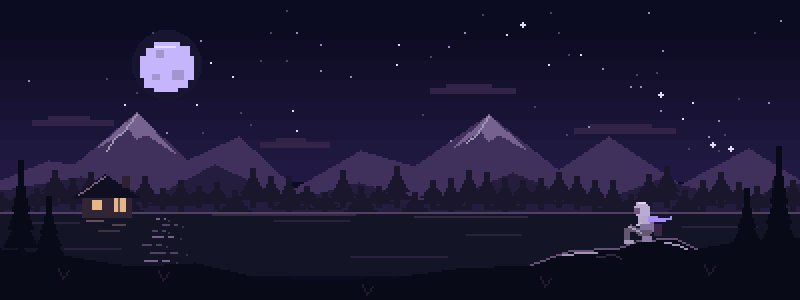
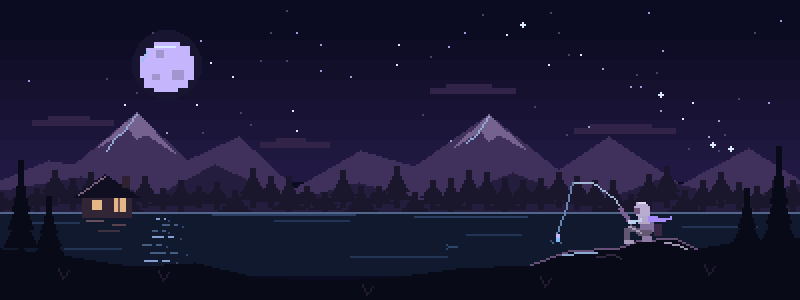
Center profile and add animated blue-accent fishing scene

diff --git a/tools/render_night_hero.py b/tools/render_night_hero.py
@@ -1,4 +1,4 @@
-"""A hand-drawn pixel landscape with a small stargazer and looping night sky.
+"""A hand-drawn pixel landscape with a fishing sprite and looping night sky.
 
 Render at 400x150, then enlarge exactly 2x to preserve crisp pixel edges.
 Requires Pillow. There is deliberately no text in the artwork.
@@ -38,7 +38,8 @@ def landscape():
     d.rectangle((78,25,81,28),fill='#A396CE')
     d.rectangle((86,35,91,39),fill='#A396CE')
     d.rectangle((76,37,79,39),fill='#A396CE')
-    d.line((77,23,87,23),fill='#E5DAFF')
+    d.line((77,23,87,23),fill='#D9E8FF')
+    d.line((73,25,71,30),fill='#9ABFF1')
 
     # Distant lavender clouds and two overlapping mountain ridges.
     for x,y,l in [(16,60,40),(215,44,42),(287,64,50),(130,71,34)]:
@@ -48,20 +49,20 @@ def landscape():
                (180,75),(207,83),(244,57),(279,85),(304,68),(340,92),(374,74),(400,90),(400,120),(0,120)],fill='#3F315B')
     d.polygon([(49,73),(68,56),(87,76),(73,67),(68,69),(64,64)],fill='#76628F')
     d.polygon([(227,73),(244,57),(262,74),(249,67),(244,70),(240,65)],fill='#76628F')
-    d.line([(68,57),(62,65),(57,69),(53,75)],fill='#A397B6')
-    d.line([(244,58),(238,67),(233,71)],fill='#A397B6')
+    d.line([(68,57),(62,65),(57,69),(53,75)],fill='#92A8D4')
+    d.line([(244,58),(238,67),(233,71)],fill='#92A8D4')
     d.polygon([(0,95),(40,88),(77,98),(107,82),(145,100),(179,91),(217,102),
                (256,86),(295,102),(330,89),(368,100),(400,91),(400,120),(0,120)],fill='#251D3D')
     for x in range(0,405,9):
         tree(d,x,105+rng.randrange(-3,4),rng.randrange(10,21),'#1A172C')
 
     # Lake and distant shoreline.
-    d.rectangle((0,106,400,137),fill='#131426')
-    d.line((0,106,400,106),fill='#514165')
-    d.line((106,107,177,107),fill='#332840')
-    d.line((207,108,263,108),fill='#332840')
+    d.rectangle((0,106,400,137),fill='#10192D')
+    d.line((0,106,400,106),fill='#52658B')
+    d.line((106,107,177,107),fill='#2B3D61')
+    d.line((207,108,263,108),fill='#2B3D61')
     for x,y,l in [(15,111,24),(137,110,37),(233,117,27),(175,128,48),(32,124,28),(341,113,37)]:
-        d.line((x,y,x+l,y),fill='#28223D')
+        d.line((x,y,x+l,y),fill='#233455')
 
     # Tiny lakeside cabin and its warm windows.
     d.rectangle((41,98,65,108),fill='#322535')
@@ -80,7 +81,7 @@ def landscape():
                (199,138),(228,134),(265,132),(285,125),(308,124),(319,120),
                (337,119),(348,124),(371,120),(400,118),(400,150),(0,150)],fill='#080A17')
     d.line([(265,132),(285,125),(308,124),(319,120),(337,119),(348,124)],fill='#665078',width=1)
-    d.line([(281,127),(292,126),(298,126)],fill='#A396B4')
+    d.line([(281,127),(292,126),(298,126)],fill='#8CAAD2')
     d.line([(332,121),(339,122),(343,124)],fill='#A396B4')
     d.line([(298,128),(307,127),(310,129)],fill='#30263F')
     for x,y,size in [(10,132,52),(24,135,37),(389,130,57),(373,133,39)]:
@@ -101,7 +102,7 @@ for frame in range(N):
         if base.getpixel((x,y)) not in sky_colors:
             continue
         value = (cos((frame+phase)*2*pi/N)+1)/2
-        color = '#E4DDF9' if value>.86 else '#9A87C1' if value>.42 else '#4D416B'
+        color = '#DCEBFF' if value>.86 else '#9A9ED5' if value>.42 else '#4D416B'
         d.point((x,y),fill=color)
         if large and value>.86:
             d.line((x-1,y,x+1,y),fill=color)
@@ -111,18 +112,41 @@ for frame in range(N):
     for j,(y,offset,half) in enumerate([(109,-1,3),(112,2,5),(115,-4,4),(118,1,7),
                                       (122,-3,6),(126,4,9),(130,-1,8)]):
         x = 82 + offset + round(sin(frame*2*pi/N+j)*2)
-        shade = '#514267' if (frame//8+j)%3 else '#75618B'
+        shade = '#465D83' if (frame//8+j)%3 else '#849FD0'
         d.line((x-half,y,x-2,y),fill=shade)
         d.line((x+1,y,x+half//2,y),fill=shade)
-        d.point((x+half,y+1),fill='#3D324E')
+        d.point((x+half,y+1),fill='#30466A')
 
-    # A seated stargazer in a pale hoodie, looking left over the lake.
+    # Fishing line, float and small expanding ripples, drawn on the lake.
+    bob = round(sin(frame*2*pi/N)*1.2)
+    rod_lift = 1 if 18 <= frame < 30 else 0
+    tip_x, tip_y = 286, 91-rod_lift
+    float_x, float_y = 278, 119+bob
+    d.line([(315,111),(307,99),(296,91-rod_lift),(tip_x,tip_y)],fill='#A4B6D5')
+    d.line([(315,111),(310,104)],fill='#796193',width=2)
+    d.line([(tip_x,tip_y),(283,103),(float_x,float_y-2)],fill='#6685B0')
+    ripple = 2 + (frame//6)%4
+    ripple_color = '#45658B' if ripple < 4 else '#2A4161'
+    d.line((float_x-ripple,float_y+2,float_x-2,float_y+2),fill=ripple_color)
+    d.line((float_x+2,float_y+2,float_x+ripple,float_y+2),fill=ripple_color)
+    d.point((float_x-ripple-1,float_y+1),fill='#304F75')
+    d.rectangle((float_x,float_y-2,float_x+1,float_y-1),fill='#C4B5FD')
+    d.rectangle((float_x,float_y,float_x+1,float_y+1),fill='#7DBEFA')
+    # A faint fish passes beneath the surface, turning back in the loop.
+    fish_x = 226 + round(sin(frame*2*pi/N)*12)
+    facing = 1 if cos(frame*2*pi/N)>0 else -1
+    d.line((fish_x-2,123,fish_x+2,123),fill='#29476D')
+    d.point((fish_x-3*facing,122),fill='#29476D')
+    d.point((fish_x-3*facing,124),fill='#29476D')
+
+    # A seated fisher in a pale hoodie, hands wrapped around the rod.
     d.rectangle((320,108,326,115),fill='#81709C')
     d.rectangle((319,108,324,111),fill='#B5A7CB')
     d.polygon([(318,101),(322,101),(324,103),(324,107),(319,108),(317,106),(317,103)],fill='#BAACD0')
     d.line((319,101,322,101),fill='#DFD5EC')
     d.rectangle((317,104,319,106),fill='#6E597D')
-    d.line([(320,111),(317,113),(315,113)],fill='#C4B5DD')
+    d.line([(320,110),(317,111),(314,111)],fill='#BBD1ED',width=2)
+    d.point((314,110),fill='#E0D0DF')
     d.polygon([(319,114),(325,115),(324,118),(319,117),(316,115),(314,116),(314,120),(312,120),(312,114),(315,112)],fill='#625771')
     d.line([(314,113),(317,114),(320,116)],fill='#A89ABB')
     d.rectangle((312,120,316,121),fill='#A89ABB')

diff --git a/README.md b/README.md
@@ -1,40 +1,82 @@
-<picture>
-  <source media="(prefers-reduced-motion: reduce)" srcset="./assets/profile-hero.png">
-  <img src="./assets/profile-hero.gif" width="800" alt="A pixel-art stargazer beside a moonlit lake beneath twinkling stars">
-</picture>
+<p align="center">
+  <img src="./assets/profile-hero.gif" width="800" alt="An animated pixel-art fishing scene by a moonlit lake, with twinkling stars, blue reflections and a gently bobbing float">
+</p>
 
-I build interactive 3D maps with **C++ and WebAssembly**, and diagram tools powered by **local vision-language models**.
+<p align="center">
+  Just trying to code stuff and figure things out along the way.
+</p>
 
-B.E. in Computer Science. Open to software engineering and applied AI roles.
+<p align="center">
+  <a href="https://rohan-purohit.vercel.app">Portfolio</a> &nbsp; · &nbsp;
+  <a href="https://linkedin.com/in/rohan-purohit-b65062277">LinkedIn</a>
+</p>
 
-[Portfolio](https://rohan-purohit.vercel.app) · [LinkedIn](https://linkedin.com/in/rohan-purohit-b65062277)
+<br>
 
-## Selected work
+<h2 align="center">Selected work</h2>
 
-### Milky Way Star Map
+<h3 align="center">Milky Way Star Map</h3>
 
-Explore stars, exoplanets, nebulae, and clusters with object search and shareable links.
+<p align="center">
+  Explore stars, exoplanets, nebulae, and clusters.<br>
+  Search for an object, find your way around, and share the view.
+</p>
 
-A **C++ renderer brought to the browser with WebAssembly and WebGL2**. Stellar positions draw on HYG and Gaia; a procedural field supplies the galaxy's overall structure.
+<p align="center">
+  A <strong>C++ renderer brought to the browser with WebAssembly and WebGL2</strong>.<br>
+  Stellar positions draw on HYG and Gaia; a procedural field supplies the galaxy's overall structure.
+</p>
 
-[Explore the map](https://star-map-three.vercel.app)
+<p align="center">
+  <a href="https://star-map-three.vercel.app">Explore the map</a>
+</p>
 
-<img src="./assets/galaxy-preview.jpg" width="800" alt="Actual Milky Way Star Map at galaxy scale, showing spiral arms with labels and grid hidden">
+<p align="center">
+  <img src="./assets/galaxy-preview.jpg" width="800" alt="Actual Milky Way Star Map at galaxy scale, showing spiral arms with labels and grid hidden">
+</p>
 
-### GoodFlow
+<br>
 
-Turn workflow screenshots into editable diagrams with **Qwen2.5-VL through Ollama**. Keep the React Flow canvas and Mermaid text synchronized, apply ELK layout, and export Mermaid, SVG, PNG, or JSON.
+<h3 align="center">GoodFlow</h3>
 
-Built with **React, TypeScript, Python, and FastAPI**.
+<p align="center">
+  Turn workflow screenshots into editable diagrams with <strong>Qwen2.5-VL through Ollama</strong>.<br>
+  A React Flow canvas, synchronized Mermaid text, automatic layout, and multiple export formats.
+</p>
 
-[View repository](https://github.com/ARPurohit07/GoodFlow)
+<p align="center">
+  <strong>React · TypeScript · Python · FastAPI</strong>
+</p>
 
-<img src="./assets/goodflow-card.svg" width="800" alt="Illustration of a workflow image passing through a local model into an editable graph">
+<p align="center">
+  <a href="https://github.com/ARPurohit07/GoodFlow">View repository</a>
+</p>
 
-*Workflow illustration, not an application screenshot.*
+<p align="center">
+  <img src="./assets/goodflow-card.svg" width="800" alt="Illustration of a workflow image passing through a local model into an editable graph"><br>
+  <sub>Workflow illustration, not an application screenshot.</sub>
+</p>
 
-## Core tools
+<br>
 
-<img src="https://skillicons.dev/icons?i=cpp,py,ts,react,fastapi,git" width="272" alt="C++, Python, TypeScript, React, FastAPI, Git">
+<h2 align="center">Things I work with</h2>
 
-C++ · Python · TypeScript · React · FastAPI · Git
+<p align="center">
+  <img src="https://skillicons.dev/icons?i=cpp,py,ts,js,react,html,css" width="360" alt="C++, Python, TypeScript, JavaScript, React, HTML, CSS">
+</p>
+
+<p align="center">
+  C++ · Python · TypeScript · JavaScript · React · HTML · CSS
+</p>
+
+<p align="center">
+  <img src="https://skillicons.dev/icons?i=nodejs,fastapi,pytorch,postgres,docker,git,github" width="360" alt="Node.js, FastAPI, PyTorch, PostgreSQL, Docker, Git, GitHub">
+</p>
+
+<p align="center">
+  Node.js · FastAPI · PyTorch · PostgreSQL · Docker · Git · GitHub
+</p>
+
+<p align="center">
+  WebAssembly · WebGL2 · Ollama · React Flow · RAG
+</p>
